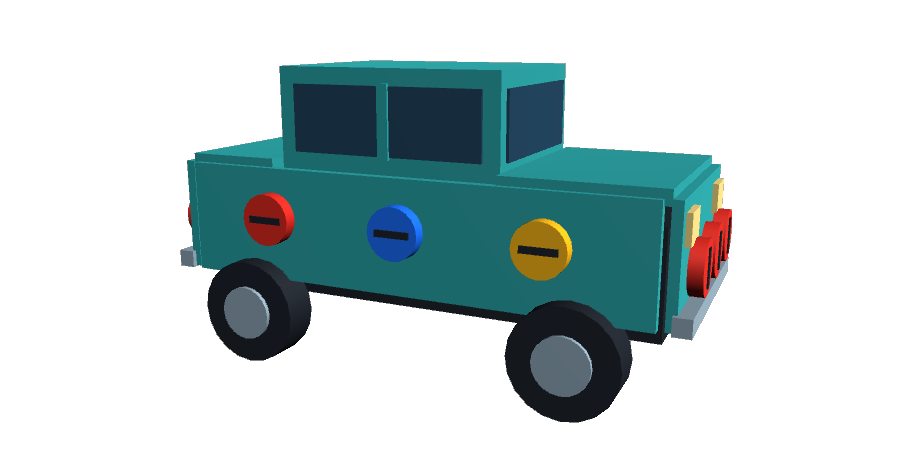
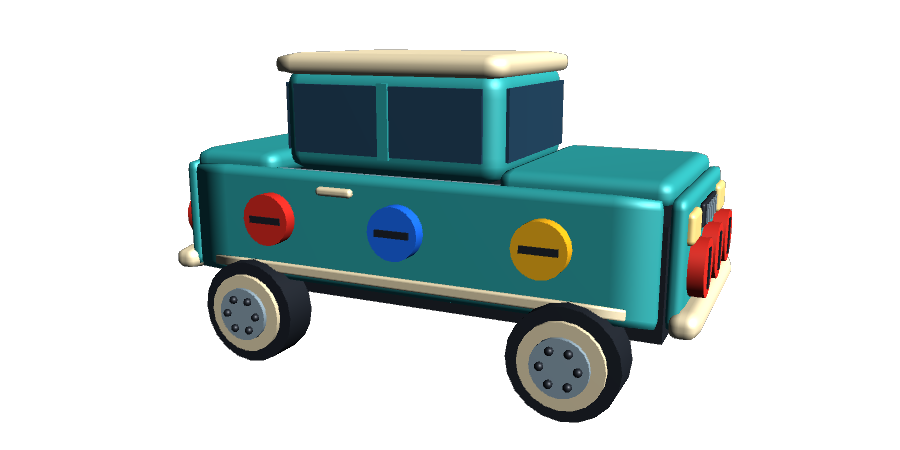
Polish tested toy car bodywork wheels and lighting

Changed region(s): [[0.1867, 0.0933, 0.8089, 0.7778], [0.56, 0.7156, 0.6844, 0.9333]]

diff --git a/Assets/Scripts/Prototype/ToyCar3DPrototypeBootstrap.cs b/Assets/Scripts/Prototype/ToyCar3DPrototypeBootstrap.cs
@@ -17,9 +17,12 @@ namespace ScrewPuzzle
             Material dark = Material(new Color(0.07f, 0.09f, 0.12f));
             Material silver = Material(new Color(0.55f, 0.64f, 0.68f));
             Material glass = Material(new Color(0.08f, 0.22f, 0.32f));
+            Material cream = Material(new Color(0.96f, 0.88f, 0.69f));
+            Material redLamp = Material(new Color(0.8f, 0.07f, 0.035f));
             Material lamp = Material(new Color(1f, 0.86f, 0.48f));
             Shape("Car Chassis", PrimitiveType.Cube, radio, new Vector3(0, -0.12f, 0), new Vector3(3.9f, 0.85f, 1.3f), dark);
-            Shape("Cabin", PrimitiveType.Cube, radio, new Vector3(-0.2f, 0.92f, 0), new Vector3(1.9f, 0.85f, 1.5f), paint);
+            RoundedBody("Cabin", radio, new Vector3(-0.2f, 0.92f, 0), new Vector3(1.9f, 0.85f, 1.5f), 0.16f, paint);
+            RoundedBody("Cream Roof", radio, new Vector3(-0.2f, 1.36f, 0), new Vector3(1.98f, 0.18f, 1.58f), 0.085f, cream);
             foreach (float side in new[] { -1f, 1f })
             {
                 Shape("Side Window", PrimitiveType.Cube, radio, new Vector3(-0.2f, 0.94f, side * 0.76f), new Vector3(1.62f, 0.54f, 0.025f), glass);
@@ -30,12 +33,21 @@ namespace ScrewPuzzle
                     wheel.localRotation = Quaternion.Euler(90, 0, 0);
                     Transform hub = Shape("Wheel Hub", PrimitiveType.Cylinder, radio, new Vector3(axle, -0.65f, side * 1.07f), new Vector3(0.44f, 0.025f, 0.44f), silver);
                     hub.localRotation = Quaternion.Euler(90, 0, 0);
+                    Transform rim = Shape("Cream Wheel Rim", PrimitiveType.Cylinder, radio, new Vector3(axle, -0.65f, side * 1.075f), new Vector3(0.65f, 0.025f, 0.65f), cream);
+                    rim.localRotation = Quaternion.Euler(90, 0, 0);
+                    hub.localPosition = new Vector3(axle, -0.65f, side * 1.11f);
+                    for (int spoke = 0; spoke < 6; spoke++)
+                    {
+                        float angle = spoke * Mathf.PI / 3f;
+                        Shape("Wheel Bolt", PrimitiveType.Sphere, radio,
+                            new Vector3(axle + Mathf.Cos(angle) * 0.14f, -0.65f + Mathf.Sin(angle) * 0.14f, side * 1.145f), Vector3.one * 0.065f, dark);
+                    }
                 }
             }
             Shape("Windshield", PrimitiveType.Cube, radio, new Vector3(0.76f, 0.94f, 0), new Vector3(0.025f, 0.54f, 1.28f), glass);
             Shape("Rear Window", PrimitiveType.Cube, radio, new Vector3(-1.16f, 0.94f, 0), new Vector3(0.025f, 0.54f, 1.28f), glass);
-            Shape("Hood", PrimitiveType.Cube, radio, new Vector3(1.38f, 0.55f, 0), new Vector3(1.25f, 0.12f, 1.7f), paint);
-            Shape("Trunk", PrimitiveType.Cube, radio, new Vector3(-1.59f, 0.55f, 0), new Vector3(0.8f, 0.12f, 1.7f), paint);
+            RoundedBody("Hood", radio, new Vector3(1.38f, 0.55f, 0), new Vector3(1.25f, 0.20f, 1.7f), 0.09f, paint);
+            RoundedBody("Trunk", radio, new Vector3(-1.59f, 0.55f, 0), new Vector3(0.8f, 0.20f, 1.7f), 0.09f, paint);
             plates = new Radio3DPlate[5];
             string[] names = { "Near Side Assembly", "Far Side Assembly", "Rear Bumper Assembly", "Nose Assembly", "Inner Side Assembly" };
             for (int i = 0; i < plates.Length; i++)
@@ -43,15 +55,24 @@ namespace ScrewPuzzle
                 plates[i] = new GameObject(names[i]).AddComponent<Radio3DPlate>();
                 plates[i].transform.SetParent(radio, false);
             }
-            Shape("Near Body Panel", PrimitiveType.Cube, plates[0].transform, new Vector3(0, 0.08f, -0.86f), new Vector3(3.9f, 0.92f, 0.08f), paint);
-            Shape("Far Body Panel", PrimitiveType.Cube, plates[1].transform, new Vector3(0, 0.08f, 0.86f), new Vector3(3.9f, 0.92f, 0.08f), paint);
+            RoundedBody("Near Body Panel", plates[0].transform, new Vector3(0, 0.08f, -0.86f), new Vector3(3.9f, 0.92f, 0.12f), 0.055f, paint);
+            RoundedBody("Far Body Panel", plates[1].transform, new Vector3(0, 0.08f, 0.86f), new Vector3(3.9f, 0.92f, 0.12f), 0.055f, paint);
+            for (int face = 0; face < 2; face++)
+            {
+                float side = face == 0 ? -1f : 1f;
+                RoundedBody("Cream Sill", plates[face].transform, new Vector3(0, -0.27f, side * 0.935f), new Vector3(3.5f, 0.09f, 0.045f), 0.02f, cream);
+                RoundedBody("Door Handle", plates[face].transform, new Vector3(-0.55f, 0.40f, side * 0.94f), new Vector3(0.32f, 0.07f, 0.07f), 0.03f, cream);
+            }
             for (int i = 2; i < 4; i++)
             {
                 float end = i == 2 ? -1f : 1f;
-                Shape("End Panel", PrimitiveType.Cube, plates[i].transform, new Vector3(end * 2.04f, 0.08f, 0), new Vector3(0.08f, 0.92f, 1.7f), paint);
-                Shape("Bumper", PrimitiveType.Cube, plates[i].transform, new Vector3(end * 2.12f, -0.32f, 0), new Vector3(0.14f, 0.14f, 1.78f), silver);
+                RoundedBody("End Panel", plates[i].transform, new Vector3(end * 2.04f, 0.08f, 0), new Vector3(0.12f, 0.92f, 1.7f), 0.055f, paint);
+                RoundedBody("Bumper", plates[i].transform, new Vector3(end * 2.12f, -0.32f, 0), new Vector3(0.22f, 0.19f, 1.86f), 0.085f, cream);
                 foreach (float side in new[] { -1f, 1f })
-                    Shape("Lamp", PrimitiveType.Cube, plates[i].transform, new Vector3(end * 2.10f, 0.32f, side * 0.6f), new Vector3(0.05f, 0.24f, 0.3f), lamp);
+                    RoundedBody("Lamp", plates[i].transform, new Vector3(end * 2.10f, 0.32f, side * 0.6f), new Vector3(0.09f, 0.23f, 0.3f), 0.04f, i == 2 ? redLamp : lamp);
+                RoundedBody("End Grille", plates[i].transform, new Vector3(end * 2.115f, 0.33f, 0), new Vector3(0.04f, 0.18f, 0.60f), 0.018f, dark);
+                for (int bar = -2; bar <= 2; bar++)
+                    Shape("Grille Bar", PrimitiveType.Cube, plates[i].transform, new Vector3(end * 2.14f, 0.33f, bar * 0.1f), new Vector3(0.015f, 0.14f, 0.025f), silver);
             }
             Shape("Inner Side Plate", PrimitiveType.Cube, plates[4].transform, new Vector3(0, 0.08f, -0.73f), new Vector3(2.7f, 0.88f, 0.04f), silver);
             Shape("Motor", PrimitiveType.Cube, radio, new Vector3(0, 0.08f, -0.67f), new Vector3(1.5f, 0.6f, 0.03f), Material(new Color(0.68f, 0.43f, 0.16f)));

diff --git a/Assets/Scripts/Prototype/Radio3DPrototypeBootstrap.cs b/Assets/Scripts/Prototype/Radio3DPrototypeBootstrap.cs
@@ -147,7 +147,7 @@ namespace ScrewPuzzle
             disc.localRotation = Quaternion.Euler(90f, 0f, 0f);
         }
 
-        private Transform RoundedBody(string name, Transform parent, Vector3 position, Vector3 size, float radius, Material material)
+        protected Transform RoundedBody(string name, Transform parent, Vector3 position, Vector3 size, float radius, Material material)
         {
             var obj = new GameObject(name, typeof(MeshFilter), typeof(MeshRenderer), typeof(BoxCollider));
             obj.transform.SetParent(parent, false);

diff --git a/docs/TOY_CAR_3D_EXPERIMENT.md b/docs/TOY_CAR_3D_EXPERIMENT.md
@@ -58,3 +58,22 @@ The existing 18 tests passed after sharing the board setup. The first toy-car ru
 ![Toy car prototype](art/ToyCar3D_Prototype_Preview.png)
 
 User acceptance: all test scenarios passed on both boards; user approved saving this milestone and adding a shared 3D board selector.
+
+## Toy car visual polish (2026-10-01)
+
+The car now has rounded teal body panels, hood, trunk and cabin, a cream roof,
+cream wheel rims with hub bolts, side trim and door handles, rounded cream bumpers,
+front headlights, red rear lights and small end grilles. Side trim belongs to its
+side plate; lights, grilles and bumpers belong to their end plates, so decorations
+move with the correct assembly during removal and return on Restart. The roof and
+wheels stay on the chassis. The Toy Shop thumbnail uses the updated model.
+
+Screw positions, colors, five plate assignments and tray rules are unchanged.
+The car completion/restart regression and both navigation regressions passed.
+Two render helpers also passed; portrait and wide gameplay views and the transparent
+menu thumbnail were visually inspected.
+
+User acceptance (2026-10-01): the user reported that all test scenarios passed
+successfully after the toy car visual polish and the requested PC/phone checks.
+
+![Polished toy car](art/ToyCar3D_Polished_Preview.png)
